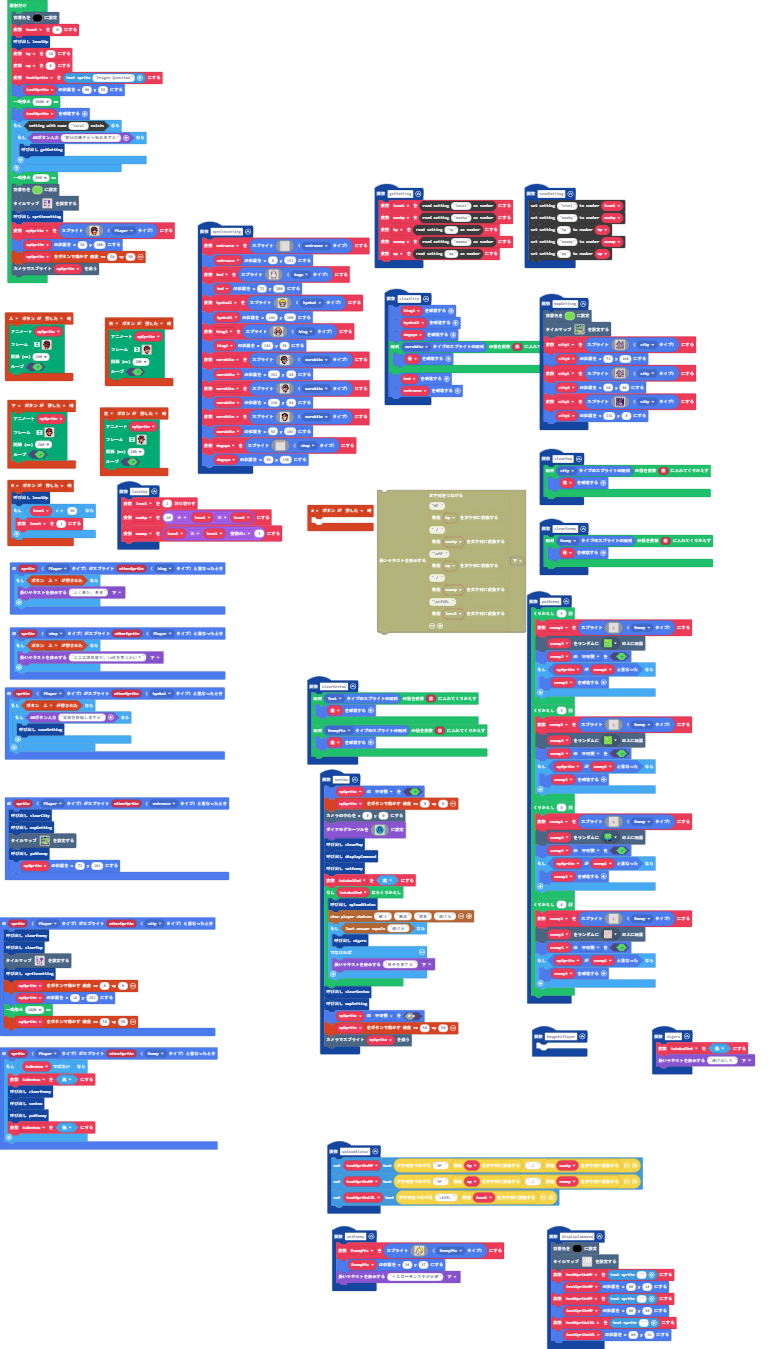
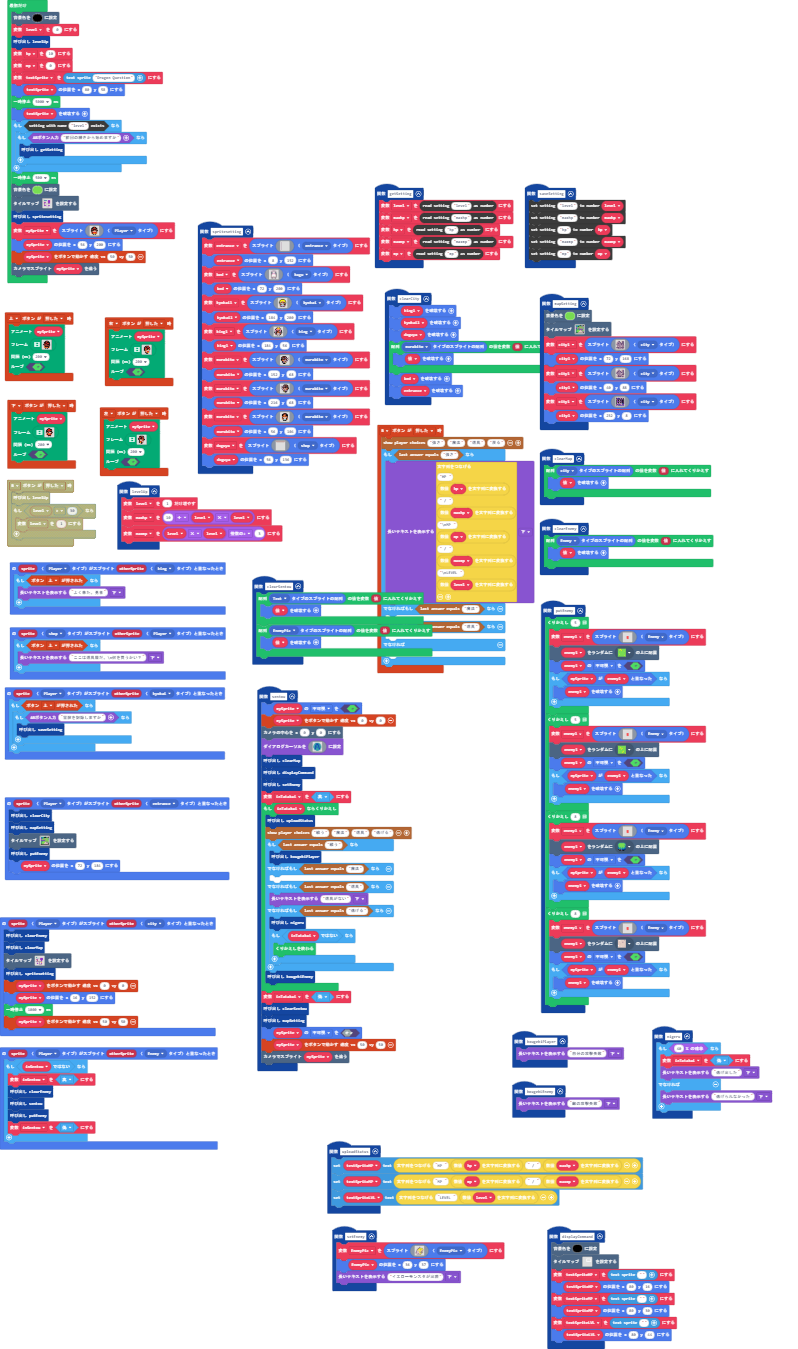
攻撃失敗追加

diff --git a/main.ts b/main.ts
@@ -356,7 +356,7 @@ function spritesetting () {
     doguya.setPosition(56, 136)
 }
 function kougekiPlayer () {
-	
+    game.showLongText("自分の攻撃失敗", DialogLayout.Bottom)
 }
 function clearSentou () {
     for (let 値 of sprites.allOfKind(SpriteKind.Text)) {
@@ -399,16 +399,25 @@ function sentou () {
     clearMap()
     displayCommand()
     setEnemy()
-    tatakaiEnd = true
-    while (tatakaiEnd) {
+    inTatakai = true
+    while (inTatakai) {
         uploadStatus()
         story.showPlayerChoices("戦う", "魔法", "道具", "逃げる")
-        if (story.checkLastAnswer("逃げる")) {
+        if (story.checkLastAnswer("戦う")) {
+            kougekiPlayer()
+        } else if (story.checkLastAnswer("魔法")) {
+        	
+        } else if (story.checkLastAnswer("道具")) {
+            game.showLongText("道具がない", DialogLayout.Bottom)
+        } else if (story.checkLastAnswer("逃げる")) {
             nigeru()
-        } else {
-            game.showLongText("様子を見てる", DialogLayout.Bottom)
+            if (!(inTatakai)) {
+                break;
+            }
         }
+        kougekiEnemy()
     }
+    inTatakai = false
     clearSentou()
     mapSetting()
     mySprite.setFlag(SpriteFlag.Invisible, false)
@@ -416,8 +425,12 @@ function sentou () {
     scene.cameraFollowSprite(mySprite)
 }
 function nigeru () {
-    tatakaiEnd = false
-    game.showLongText("逃げ出した", DialogLayout.Bottom)
+    if (Math.percentChance(40)) {
+        inTatakai = false
+        game.showLongText("逃げ出した", DialogLayout.Bottom)
+    } else {
+        game.showLongText("逃げられなかった", DialogLayout.Bottom)
+    }
 }
 function levelUp () {
     level += 1
@@ -614,9 +627,15 @@ function mapSetting () {
     city1.setPosition(232, 8)
 }
 controller.B.onEvent(ControllerButtonEvent.Pressed, function () {
-    levelUp()
-    if (level > 30) {
-        level = 1
+    story.showPlayerChoices("強さ", "魔法", "道具", "戻る")
+    if (story.checkLastAnswer("強さ")) {
+        game.showLongText("HP " + convertToText(hp) + " / " + convertToText(maxhp) + "\\nMP " + convertToText(mp) + " / " + convertToText(maxmp) + "\\nLEVEL " + convertToText(level), DialogLayout.Bottom)
+    } else if (story.checkLastAnswer("魔法")) {
+    	
+    } else if (story.checkLastAnswer("道具")) {
+    	
+    } else {
+    	
     }
 })
 function setEnemy () {
@@ -725,6 +744,9 @@ controller.up.onEvent(ControllerButtonEvent.Pressed, function () {
     true
     )
 })
+function kougekiEnemy () {
+    game.showLongText("敵の攻撃失敗", DialogLayout.Bottom)
+}
 function saveSetting () {
     blockSettings.writeNumber("level", level)
     blockSettings.writeNumber("maxhp", maxhp)
@@ -788,13 +810,10 @@ sprites.onOverlap(SpriteKind.Player, SpriteKind.Enemy, function (sprite, otherSp
         inSentou = false
     }
 })
-controller.A.onEvent(ControllerButtonEvent.Pressed, function () {
-	
-})
 let inSentou = false
 let EnemyPic: Sprite = null
 let city1: Sprite = null
-let tatakaiEnd = false
+let inTatakai = false
 let textSpriteLVL: TextSprite = null
 let textSpriteMP: TextSprite = null
 let testSpriteHP: TextSprite = null
